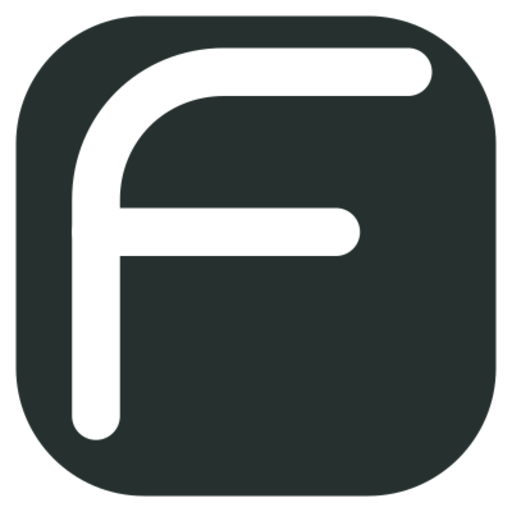
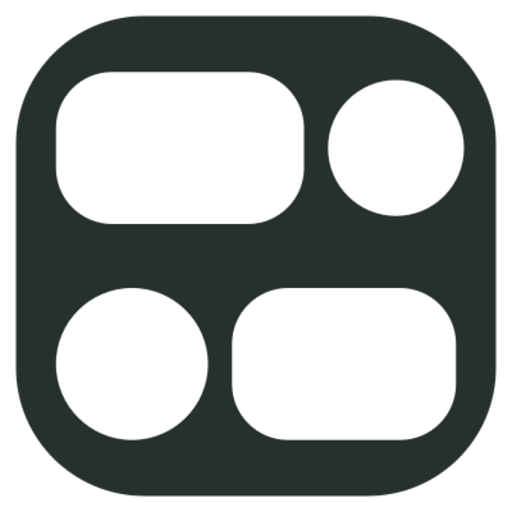
Refine Floe mark into modular forms

diff --git a/Components/Header/header.php b/Components/Header/header.php
@@ -8,7 +8,8 @@ defined( 'ABSPATH' ) || exit;
 		<?php if ( has_custom_logo() ) : ?>
 			<?php the_custom_logo(); ?>
 		<?php else : ?>
-			<a class="floe-site-logo" href="<?php echo esc_url( home_url( '/' ) ); ?>"><img src="<?php echo esc_url( get_template_directory_uri() . '/Assets/Brand/floe-logo.svg' ); ?>" width="208" height="64" alt="<?php echo esc_attr( get_bloginfo( 'name' ) ); ?>"></a>
+			<?php $logo_path = get_template_directory() . '/Assets/Brand/floe-logo.svg'; ?>
+			<a class="floe-site-logo" href="<?php echo esc_url( home_url( '/' ) ); ?>"><img src="<?php echo esc_url( add_query_arg( 'ver', (string) filemtime( $logo_path ), get_template_directory_uri() . '/Assets/Brand/floe-logo.svg' ) ); ?>" width="208" height="64" alt="<?php echo esc_attr( get_bloginfo( 'name' ) ); ?>"></a>
 		<?php endif; ?>
 	</div>
 	<nav class="floe-site-nav" aria-label="<?php esc_attr_e( 'Primary menu', 'floe' ); ?>">

diff --git a/Assets/Brand/README.md b/Assets/Brand/README.md
@@ -1,6 +1,6 @@
 # Floe brand assets
 
-- `floe-logo.svg` is the full header lockup: a rounded F mark and outlined lowercase wordmark. It has no runtime font dependency.
+- `floe-logo.svg` is the full header lockup: an abstract arrangement of offset content-like forms and the existing outlined lowercase wordmark. It has no runtime font dependency.
 - `floe-mark.svg` is the standalone mark for future uses.
 - `floe-site-icon.svg` is the mark on a dark tile. `floe-site-icon.png` is its 512 px export for WordPress's native Site Icon setting.
 
